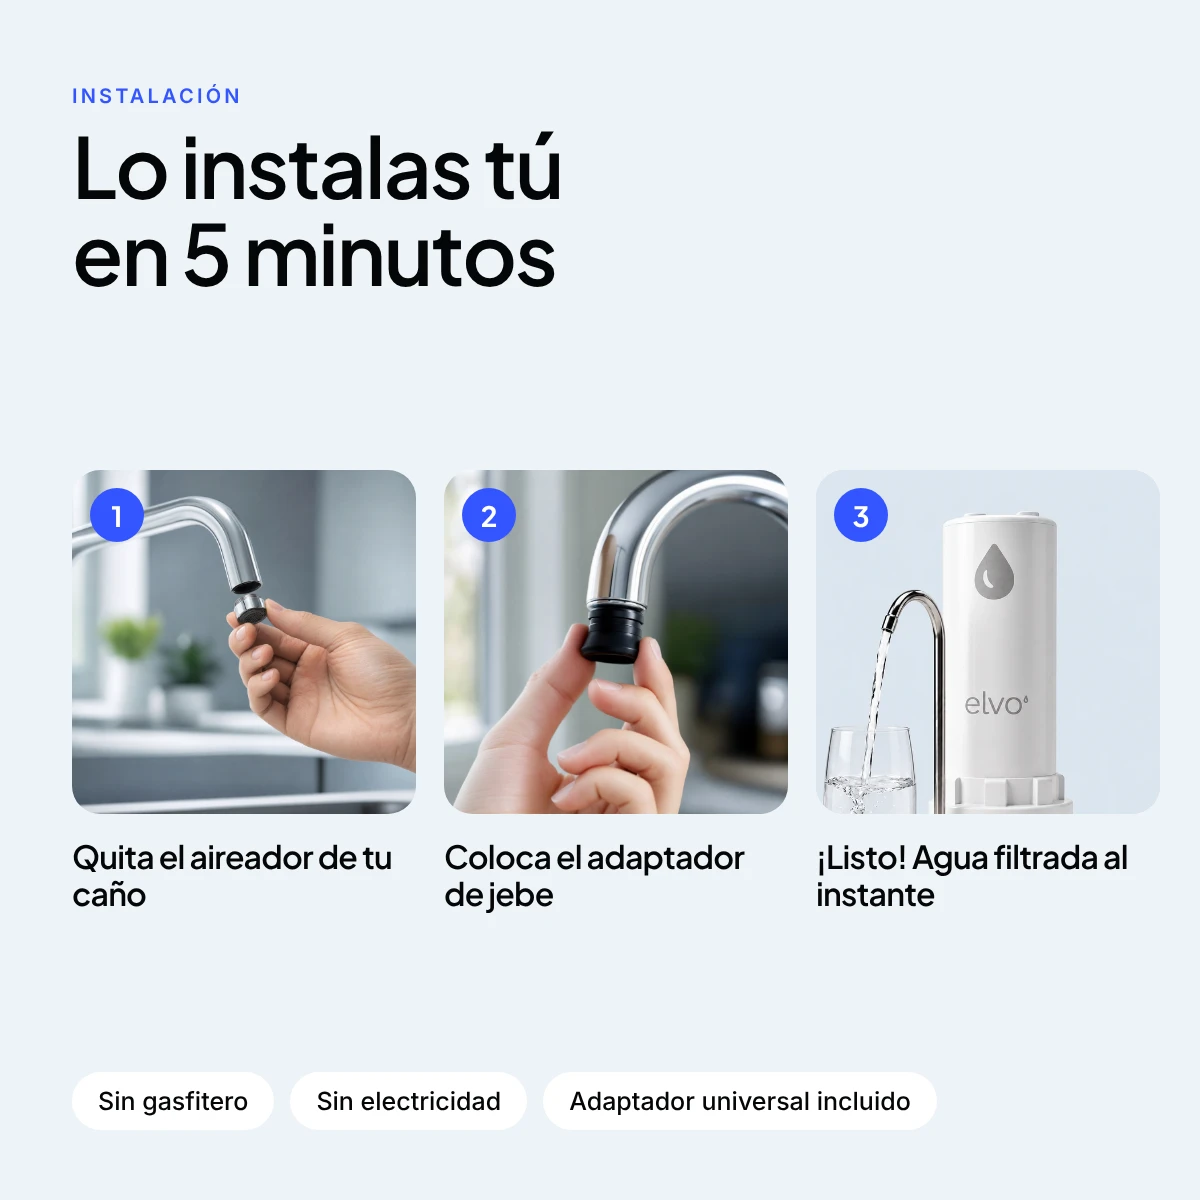
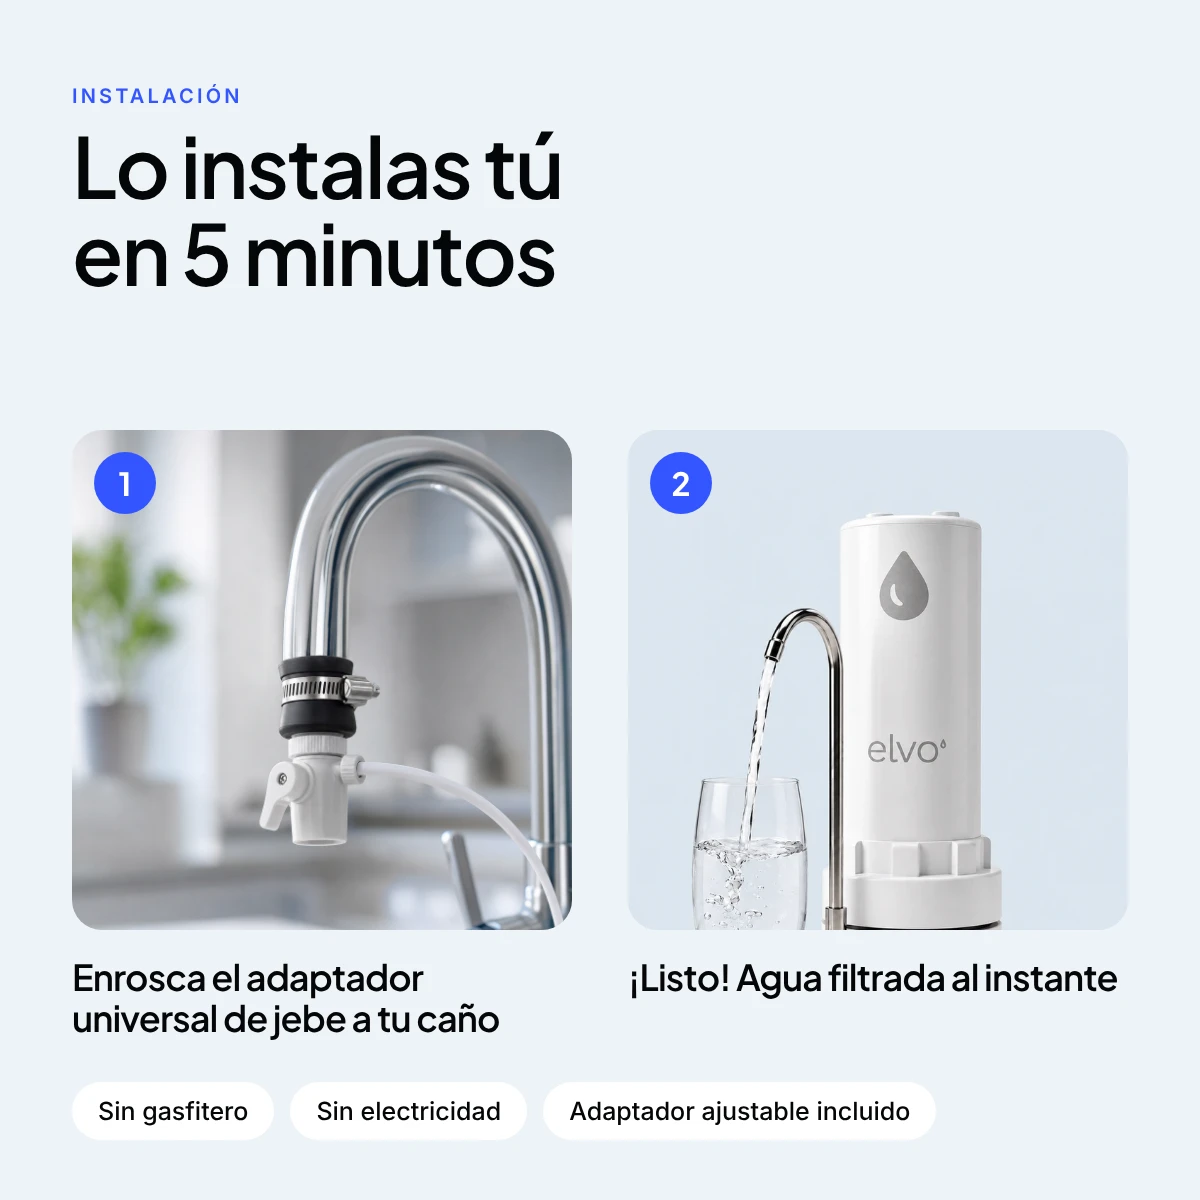
Galeria Nativo: instalacion sin quitar aireador (adaptador de jebe ajustable)
Claude-Session: https://claude.ai/code/session_01Buo77uofKMf1g7UXANtFhU

diff --git a/brands/elvo/web/galeria-nativo/s4.html b/brands/elvo/web/galeria-nativo/s4.html
@@ -11,5 +11,5 @@ h1,h2,h3,.pj{font-family:'Plus Jakarta Sans',Arial,sans-serif;letter-spacing:-.0
 .fn{position:absolute;left:72px;bottom:44px;font-size:19px;color:#6B7480}
 .brand{position:absolute;right:72px;bottom:40px;font-family:'Plus Jakarta Sans';font-weight:700;font-size:34px;letter-spacing:-.04em}
 <style></style></head><body style="background:#EEF3F7"><div style="position:absolute;left:72px;top:84px"><span class="k">Instalación</span><h1 style="font-size:84px;font-weight:600;margin-top:14px;line-height:1.04">Lo instalas tú<br>en 5 minutos</h1></div>
-<div style="position:absolute;left:72px;top:470px;display:flex;gap:28px"><div style="width:344px"><div style="position:relative;width:344px;height:344px;border-radius:28px;overflow:hidden;"><img src="assets/gal-paso1.png" style="width:100%;height:100%;object-fit:cover;"><div style="position:absolute;left:18px;top:18px;width:54px;height:54px;border-radius:50%;background:#3355FF;color:#fff;font-family:Plus Jakarta Sans;font-weight:700;font-size:28px;display:grid;place-items:center">1</div></div><h3 style="font-size:32px;font-weight:600;margin-top:24px;line-height:1.15">Quita el aireador de tu caño</h3></div><div style="width:344px"><div style="position:relative;width:344px;height:344px;border-radius:28px;overflow:hidden;"><img src="assets/gal-paso2.png" style="width:100%;height:100%;object-fit:cover;"><div style="position:absolute;left:18px;top:18px;width:54px;height:54px;border-radius:50%;background:#3355FF;color:#fff;font-family:Plus Jakarta Sans;font-weight:700;font-size:28px;display:grid;place-items:center">2</div></div><h3 style="font-size:32px;font-weight:600;margin-top:24px;line-height:1.15">Coloca el adaptador de jebe</h3></div><div style="width:344px"><div style="position:relative;width:344px;height:344px;border-radius:28px;overflow:hidden;background:#DCE6EE"><img src="assets/producto.webp" style="width:100%;height:100%;object-fit:cover;transform:scale(1.7) translate(-4%,10%);transform-origin:55% 60%"><div style="position:absolute;left:18px;top:18px;width:54px;height:54px;border-radius:50%;background:#3355FF;color:#fff;font-family:Plus Jakarta Sans;font-weight:700;font-size:28px;display:grid;place-items:center">3</div></div><h3 style="font-size:32px;font-weight:600;margin-top:24px;line-height:1.15">¡Listo! Agua filtrada al instante</h3></div></div>
-<div style="position:absolute;left:72px;bottom:70px;display:flex;gap:16px"><span style="background:#fff;border-radius:999px;padding:14px 26px;font-size:25px;font-weight:500">Sin gasfitero</span><span style="background:#fff;border-radius:999px;padding:14px 26px;font-size:25px;font-weight:500">Sin electricidad</span><span style="background:#fff;border-radius:999px;padding:14px 26px;font-size:25px;font-weight:500">Adaptador universal incluido</span></div></body></html>
+<div style="position:absolute;left:72px;top:430px;display:flex;gap:56px"><div style="width:500px"><div style="position:relative;width:500px;height:500px;border-radius:30px;overflow:hidden;"><img src="assets/gal-adaptador.png" style="width:100%;height:100%;object-fit:cover;"><div style="position:absolute;left:22px;top:22px;width:62px;height:62px;border-radius:50%;background:#3355FF;color:#fff;font-family:Plus Jakarta Sans;font-weight:700;font-size:32px;display:grid;place-items:center">1</div></div><h3 style="font-size:36px;font-weight:600;margin-top:26px;line-height:1.15">Enrosca el adaptador universal de jebe a tu caño</h3></div><div style="width:500px"><div style="position:relative;width:500px;height:500px;border-radius:30px;overflow:hidden;background:#DCE6EE"><img src="assets/producto.webp" style="width:100%;height:100%;object-fit:cover;transform:scale(1.45) translate(-2%,8%);transform-origin:55% 60%"><div style="position:absolute;left:22px;top:22px;width:62px;height:62px;border-radius:50%;background:#3355FF;color:#fff;font-family:Plus Jakarta Sans;font-weight:700;font-size:32px;display:grid;place-items:center">2</div></div><h3 style="font-size:36px;font-weight:600;margin-top:26px;line-height:1.15">¡Listo! Agua filtrada al instante</h3></div></div>
+<div style="position:absolute;left:72px;bottom:60px;display:flex;gap:16px"><span style="background:#fff;border-radius:999px;padding:14px 26px;font-size:25px;font-weight:500">Sin gasfitero</span><span style="background:#fff;border-radius:999px;padding:14px 26px;font-size:25px;font-weight:500">Sin electricidad</span><span style="background:#fff;border-radius:999px;padding:14px 26px;font-size:25px;font-weight:500">Adaptador ajustable incluido</span></div></body></html>

diff --git a/brands/elvo/web/galeria-nativo/build.py b/brands/elvo/web/galeria-nativo/build.py
@@ -57,10 +57,10 @@ page('s3',f'''<div style="position:absolute;left:72px;top:60px"><span class="k" 
 <div class="fn" style="color:#8FA5C0">*Según ficha técnica del núcleo PureCore. Esquema ilustrativo.</div>''',bg='#010A21')
 # 4 instalacion
 def card(n,img,t,extra='',zoom=''):
-    return f'''<div style="width:344px"><div style="position:relative;width:344px;height:344px;border-radius:28px;overflow:hidden;{extra}"><img src="{img}" style="width:100%;height:100%;object-fit:cover;{zoom}"><div style="position:absolute;left:18px;top:18px;width:54px;height:54px;border-radius:50%;background:#3355FF;color:#fff;font-family:Plus Jakarta Sans;font-weight:700;font-size:28px;display:grid;place-items:center">{n}</div></div><h3 style="font-size:32px;font-weight:600;margin-top:24px;line-height:1.15">{t}</h3></div>'''
+    return f'''<div style="width:500px"><div style="position:relative;width:500px;height:500px;border-radius:30px;overflow:hidden;{extra}"><img src="{img}" style="width:100%;height:100%;object-fit:cover;{zoom}"><div style="position:absolute;left:22px;top:22px;width:62px;height:62px;border-radius:50%;background:#3355FF;color:#fff;font-family:Plus Jakarta Sans;font-weight:700;font-size:32px;display:grid;place-items:center">{n}</div></div><h3 style="font-size:36px;font-weight:600;margin-top:26px;line-height:1.15">{t}</h3></div>'''
 page('s4',f'''<div style="position:absolute;left:72px;top:84px"><span class="k">Instalación</span><h1 style="font-size:84px;font-weight:600;margin-top:14px;line-height:1.04">Lo instalas tú<br>en 5 minutos</h1></div>
-<div style="position:absolute;left:72px;top:470px;display:flex;gap:28px">{card(1,"assets/gal-paso1.png","Quita el aireador de tu caño")}{card(2,"assets/gal-paso2.png","Coloca el adaptador de jebe")}{card(3,"assets/producto.webp","¡Listo! Agua filtrada al instante","background:#DCE6EE","transform:scale(1.7) translate(-4%,10%);transform-origin:55% 60%")}</div>
-<div style="position:absolute;left:72px;bottom:70px;display:flex;gap:16px">{"".join(f'<span style="background:#fff;border-radius:999px;padding:14px 26px;font-size:25px;font-weight:500">{x}</span>' for x in ["Sin gasfitero","Sin electricidad","Adaptador universal incluido"])}</div>''',bg='#EEF3F7')
+<div style="position:absolute;left:72px;top:430px;display:flex;gap:56px">{card(1,"assets/gal-adaptador.png","Enrosca el adaptador universal de jebe a tu caño")}{card(2,"assets/producto.webp","¡Listo! Agua filtrada al instante","background:#DCE6EE","transform:scale(1.45) translate(-2%,8%);transform-origin:55% 60%")}</div>
+<div style="position:absolute;left:72px;bottom:60px;display:flex;gap:16px">{"".join(f'<span style="background:#fff;border-radius:999px;padding:14px 26px;font-size:25px;font-weight:500">{x}</span>' for x in ["Sin gasfitero","Sin electricidad","Adaptador ajustable incluido"])}</div>''',bg='#EEF3F7')
 # 5 comparativa
 CHECK='<svg viewBox="0 0 40 40" width="52" height="52"><circle cx="20" cy="20" r="19" fill="#3355FF"/><path d="M11 21l6 6 12-13" stroke="#fff" stroke-width="3.5" fill="none" stroke-linecap="round" stroke-linejoin="round"/></svg>'
 CROSS='<svg viewBox="0 0 40 40" width="52" height="52"><circle cx="20" cy="20" r="19" fill="#E4EAF0"/><path d="M13 13l14 14M27 13L13 27" stroke="#7C8794" stroke-width="3.2" stroke-linecap="round"/></svg>'
